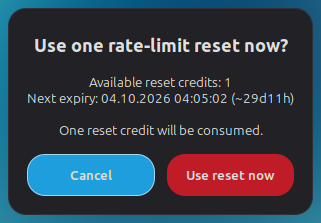
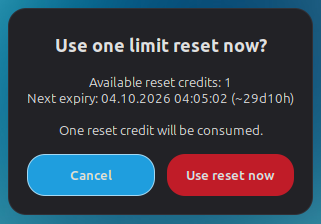
Polish reset labels and README captures

diff --git a/applet.js b/applet.js
@@ -1708,7 +1708,7 @@ class ChatGptUsageApplet extends Applet.Applet {
             ? this._resetExpiryColor(resetDisplay.expiresAt)
             : null;
         this._addCreditItem(
-            "Rate-limit resets",
+            "Limit resets",
             resetDisplay.count,
             true,
             resetDisplay.suffix,
@@ -1757,8 +1757,10 @@ class ChatGptUsageApplet extends Applet.Applet {
             separatorLabel.style = [
                 "padding-left: 6px",
                 "padding-right: 6px",
+                "font-size: 80%",
                 `color: ${POPUP_SECONDARY_TEXT_COLOR}`
             ].join("; ") + ";";
+            separatorLabel.translation_y = 2;
             const expiresLabel = new St.Label({
                 text: "expires ",
                 y_align: Clutter.ActorAlign.CENTER
@@ -1795,7 +1797,7 @@ class ChatGptUsageApplet extends Applet.Applet {
         if (this._resetConfirmationDialog) this._resetConfirmationDialog.destroy();
 
         const content = new Dialog.MessageDialogContent({
-            title: "Use one rate-limit reset now?",
+            title: "Use one limit reset now?",
             description: [
                 `Available reset credits: ${details.count}`,
                 `Next expiry: ${details.expiryText || "unavailable"}`,

diff --git a/README.md b/README.md
@@ -36,7 +36,7 @@
 
 <p align="center"><strong>Explicit earned-reset confirmation</strong></p>
 <p align="center">
-  <img src="docs/model-limits/reset-confirmation.png" width="321" alt="Native confirmation dialog before using an earned rate-limit reset">
+  <img src="docs/model-limits/reset-confirmation.png" width="321" alt="Native confirmation dialog before using an earned limit reset">
 </p>
 <p align="center"><sub>An available reset is consumed only after this native confirmation.</sub></p>
 

diff --git a/CHANGELOG.md b/CHANGELOG.md
@@ -2,7 +2,7 @@
 
 ## 0.3.8 — 2026-09-04
 
-- Keep the `Rate-limit resets` label, separator, expiry text and countdown in
+- Keep the `Limit resets` label, separator, expiry text and countdown in
   the same muted treatment as `Credits:` while retaining the bright reset
   count.
 - Add native hover tooltips to every 5h and 7d reset-countdown circle, showing
